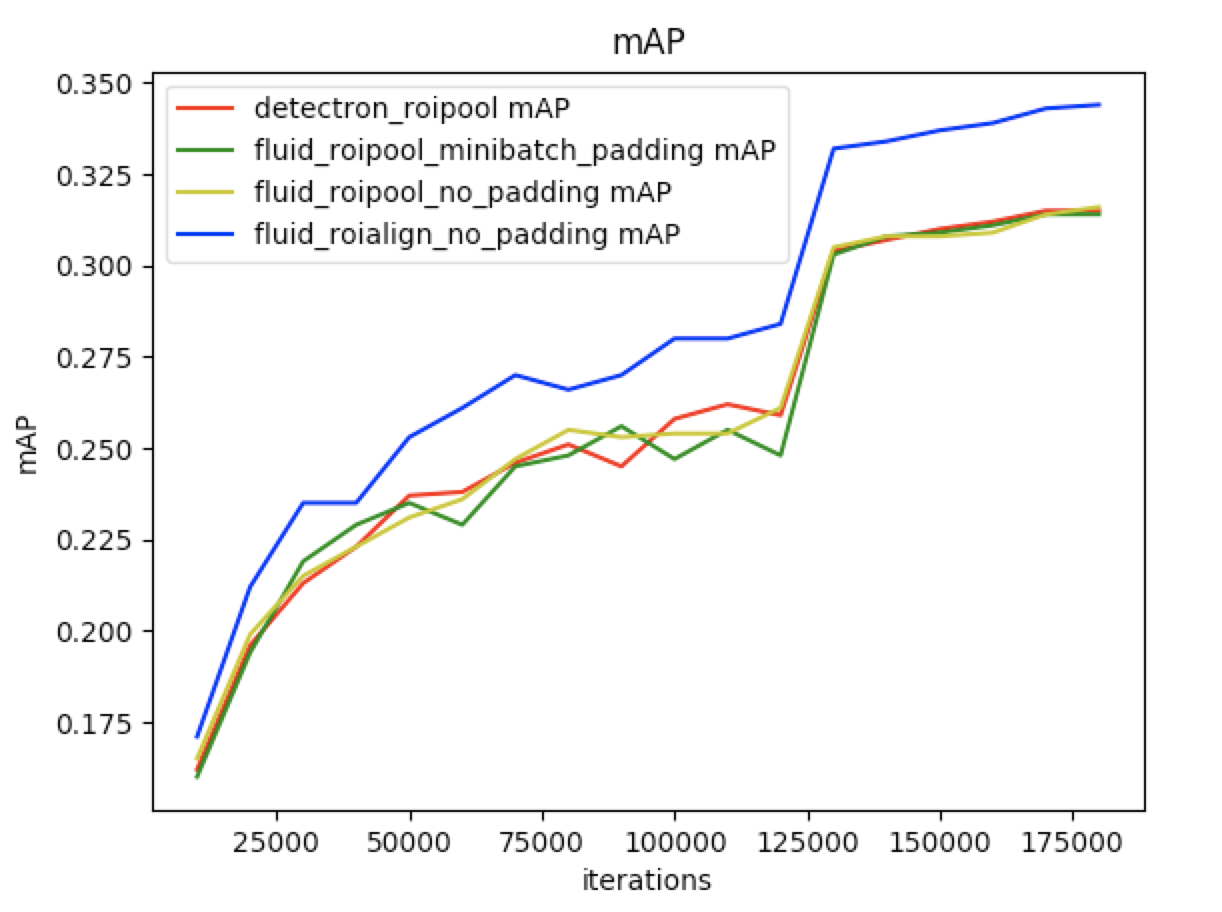
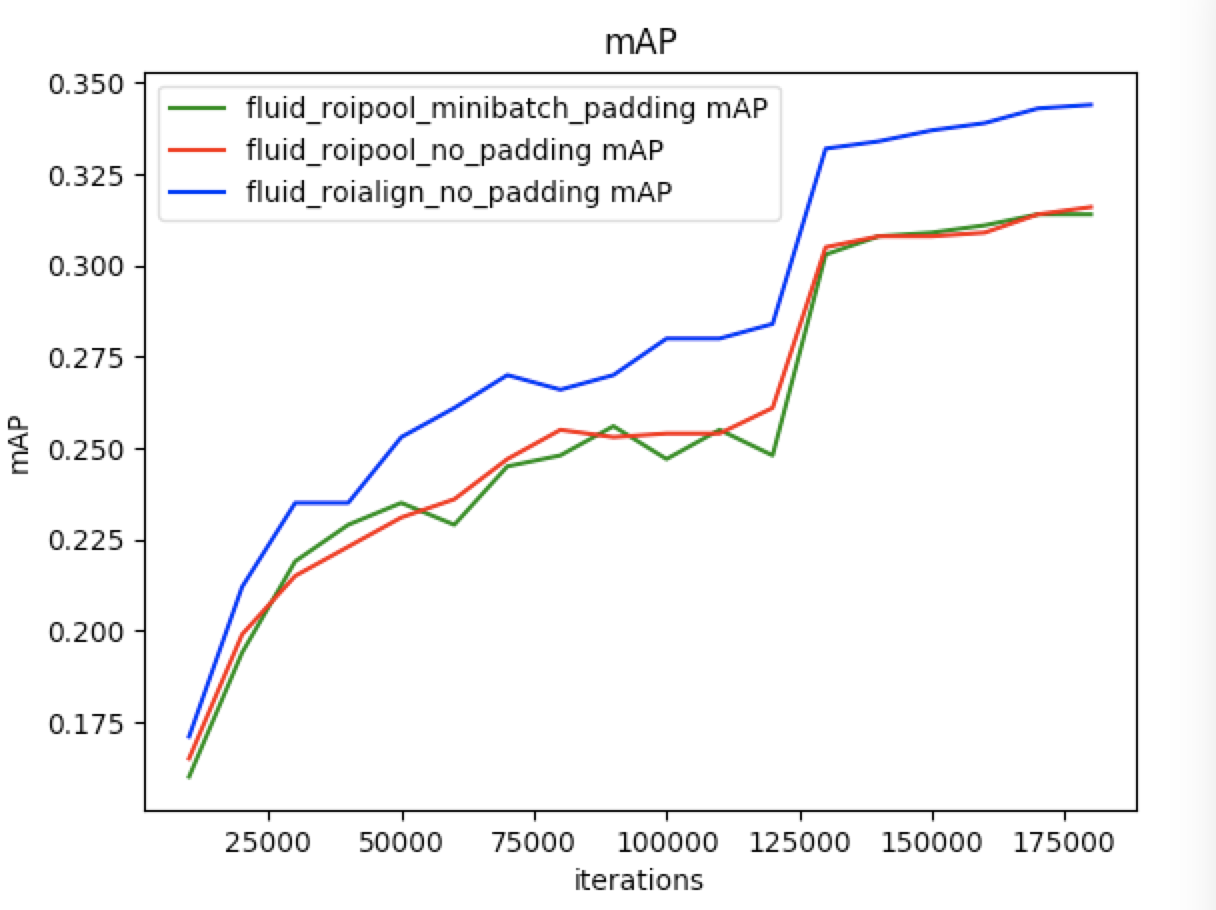
refine readme

Changed region(s): [[0.0, 0.0615, 0.9375, 0.9846], [0.75, 0.1231, 0.8438, 0.1538], [0.5, 0.0308, 0.5625, 0.0615]]

diff --git a/fluid/PaddleCV/faster_rcnn/README.md b/fluid/PaddleCV/faster_rcnn/README.md
@@ -125,11 +125,9 @@ Faster RCNN mAP
 
 | Model              | RoI function    | Batch size     | Max iteration    | mAP  |
 | :--------------- | :--------: | :------------:    | :------------------:    |------: |
-| Detectron_RoIPool        | RoIPool | 8   |    180000        | 0.315 |
-| Fluid RoIPool minibatch padding | RoIPool | 8   |    180000        | 0.314 |
-| Fluid RoIPool no padding  | RoIPool | 8   |    180000        | 0.316 |
-| Detectron_RoIAlign       | RoIAlign | 8   |    180000        | 0.346 |
-| Fluid RoIAlign no padding  | RoIAlign | 8   |    180000        | 0.345 |
+| [Fluid RoIPool minibatch padding](http://paddlemodels.bj.bcebos.com/faster_rcnn/model_pool_minibatch_padding.tar.gz) | RoIPool | 8   |    180000        | 0.314 |
+| [Fluid RoIPool no padding](http://paddlemodels.bj.bcebos.com/faster_rcnn/model_pool_no_padding.tar.gz)  | RoIPool | 8   |    180000        | 0.316 |
+| [Fluid RoIAlign no padding](http://paddlemodels.bj.bcebos.com/faster_rcnn/model_align_no_padding.tar.gz)  | RoIAlign | 8   |    180000        | 0.345 |
 
 * Fluid RoIPool minibatch padding: Use RoIPool. Images in one batch padding to the same size. This method is same as detectron.
 * Fluid RoIPool no padding: Images without padding.

diff --git a/fluid/PaddleCV/faster_rcnn/README_cn.md b/fluid/PaddleCV/faster_rcnn/README_cn.md
@@ -119,11 +119,9 @@ Faster RCNN mAP
 
 | 模型                   |   RoI处理方式  | 批量大小   | 迭代次数   | mAP  |
 | :--------------- | :--------: | :------------:    | :------------------:    |------: |
-| Detectron RoIPool        | RoIPool | 8   |    180000        | 0.315 |
-| Fluid RoIPool minibatch padding | RoIPool | 8   |    180000        | 0.314 |
-| Fluid RoIPool no padding  | RoIPool | 8   |    180000        | 0.316 |
-| Detectron RoIAlign       | RoIAlign | 8   |    180000        | 0.346 |
-| Fluid RoIAlign no padding  | RoIAlign | 8   |    180000        | 0.345 |
+| [Fluid RoIPool minibatch padding](http://paddlemodels.bj.bcebos.com/faster_rcnn/model_pool_minibatch_padding.tar.gz) | RoIPool | 8   |    180000        | 0.314 |
+| [Fluid RoIPool no padding](http://paddlemodels.bj.bcebos.com/faster_rcnn/model_pool_no_padding.tar.gz)  | RoIPool | 8   |    180000        | 0.316 |
+| [Fluid RoIAlign no padding](http://paddlemodels.bj.bcebos.com/faster_rcnn/model_align_no_padding.tar.gz)  | RoIAlign | 8   |    180000        | 0.345 |
 
 
 
